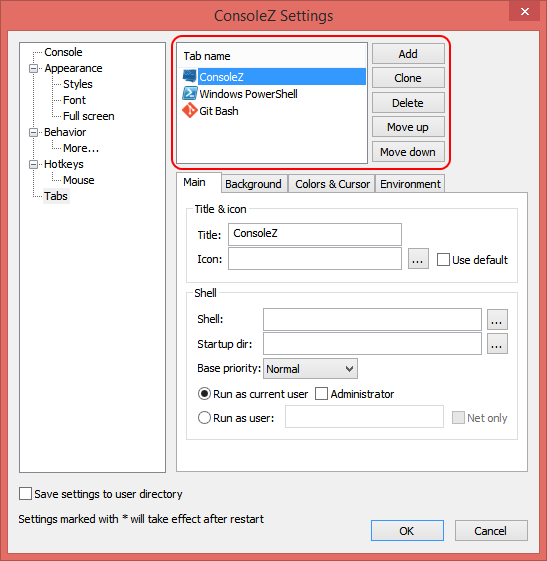
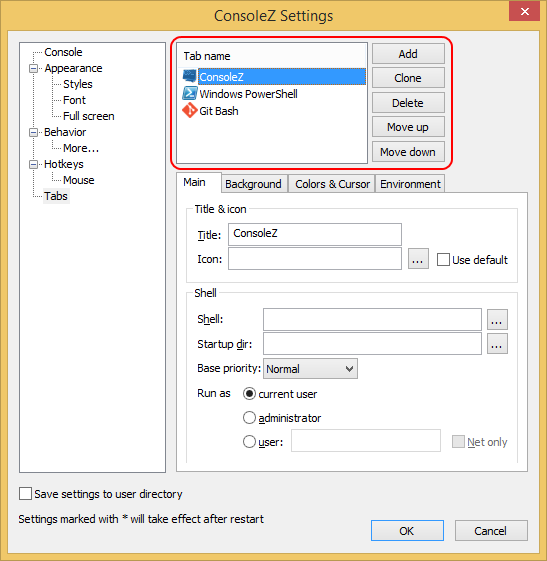
#167 remove ambiguity over "run as admnistrator" and "run as current user" in tabs settings

Changed region(s): [[0.0, 0.0, 1.0, 1.0], [0.3419, 0.697, 0.9324, 0.8182]]

diff --git a/help/html/settings_tabs_main.html b/help/html/settings_tabs_main.html
@@ -93,15 +93,18 @@
 	</p>
 	<br />
 
-	<p class="block-row-name">Administrator</p>
+	<p class="block-row-name">Run as administrator</p>
 	<p class="block-row-description">
-		If checked, the shell will be launched with elevated privileges.
+		Run as administrator with full unrestricted elevated rights and privileges.
+		Depending on what the UAC settings are set to, an administrator user may or may not
+		be prompted first by UAC to allow or deny the program to "Run as administrator" (elevated).
 	</p>
 	<br />
 
 	<p class="block-row-name">Run as user</p>
 	<p class="block-row-description">
-		If checked, a dialog, asking for another user's credentials will be displayed.
+		Run with different user credentials.
+		A dialog, asking for another user's credentials, will be displayed.
 		The dialog will be pre-populated with the given user name.
 		To use a domain account, enter your username in the form <i>domain</i>\<i>username</i> or <i>username</i>@<i>domain</i>.
 	</p>

diff --git a/Console/PageSettingsTabs1.cpp b/Console/PageSettingsTabs1.cpp
@@ -23,7 +23,6 @@ PageSettingsTabs1::PageSettingsTabs1()
 , m_nRunAs(0)
 , m_strUser(L"")
 , m_bNetOnly(false)
-, m_bRunAsAdmin(false)
 , m_tabShellEdit(this)
 {
 }
@@ -182,9 +181,8 @@ void PageSettingsTabs1::EnableControls()
 	GetDlgItem(IDC_TAB_ICON).EnableWindow(m_bUseDefaultIcon == false);
 	GetDlgItem(IDC_BTN_BROWSE_ICON).EnableWindow(m_bUseDefaultIcon == false);
 
-	GetDlgItem(IDC_TAB_USER).EnableWindow(m_nRunAs == 1);
-	GetDlgItem(IDC_CHECK_NET_ONLY).EnableWindow(m_nRunAs == 1);
-	GetDlgItem(IDC_CHECK_RUN_AS_ADMIN).EnableWindow(m_nRunAs == 0);
+	GetDlgItem(IDC_TAB_USER).EnableWindow(m_nRunAs == 2);
+	GetDlgItem(IDC_CHECK_NET_ONLY).EnableWindow(m_nRunAs == 2);
 }
 
 //////////////////////////////////////////////////////////////////////////////
@@ -202,10 +200,9 @@ void PageSettingsTabs1::Load(std::shared_ptr<TabData>& tabData)
 
 	m_strShell        = m_tabData->strShell.c_str();
 	m_strInitialDir   = m_tabData->strInitialDir.c_str();
-	m_nRunAs          = m_tabData->bRunAsUser? 1 : 0;
+	m_nRunAs          = m_tabData->bRunAsUser? 2 : m_tabData->bRunAsAdministrator? 1 : 0;
 	m_strUser         = m_tabData->strUser.c_str();
 	m_bNetOnly        = m_tabData->bNetOnly;
-	m_bRunAsAdmin     = m_tabData->bRunAsAdministrator;
 
 	m_comboPriority.SetCurSel(m_tabData->dwBasePriority);
 
@@ -229,10 +226,10 @@ void PageSettingsTabs1::Save()
 
 	m_tabData->strShell            = m_strShell;
 	m_tabData->strInitialDir       = m_strInitialDir;
-	m_tabData->bRunAsUser          = m_nRunAs == 1;
+	m_tabData->bRunAsUser          = m_nRunAs == 2;
 	m_tabData->strUser             = m_strUser;
 	m_tabData->bNetOnly            = m_bNetOnly;
-	m_tabData->bRunAsAdministrator = m_bRunAsAdmin;
+	m_tabData->bRunAsAdministrator = m_nRunAs == 1;
 
 	m_tabData->dwBasePriority      = m_comboPriority.GetCurSel();
 }
@@ -313,7 +310,7 @@ void PageSettingsTabs1::ConvertShellLink(CString& strShell)
 					if( SUCCEEDED(shellLink.QueryInterface(&dataList)) &&
 						  SUCCEEDED(dataList->GetFlags(&dwFlags)) )
 					{
-						m_bRunAsAdmin = (dwFlags & SLDF_RUNAS_USER) == SLDF_RUNAS_USER;
+						m_nRunAs = (dwFlags & SLDF_RUNAS_USER) == SLDF_RUNAS_USER ? 1 : 0;
 					}
 				}
 			}

diff --git a/Console/PageSettingsTabs1.h b/Console/PageSettingsTabs1.h
@@ -47,7 +47,6 @@ class PageSettingsTabs1
 			DDX_RADIO(IDC_CHECK_RUN_AS_CURRENT_USER, m_nRunAs)
 			DDX_TEXT(IDC_TAB_USER, m_strUser)
 			DDX_CHECK(IDC_CHECK_NET_ONLY, m_bNetOnly)
-			DDX_CHECK(IDC_CHECK_RUN_AS_ADMIN, m_bRunAsAdmin)
 		END_DDX_MAP()
 
 		BEGIN_MSG_MAP(PageSettingsTabs1)
@@ -60,8 +59,9 @@ class PageSettingsTabs1
 			COMMAND_ID_HANDLER(IDC_BTN_BROWSE_SHELL, OnClickedBtnBrowseShell)
 			COMMAND_ID_HANDLER(IDC_BTN_BROWSE_DIR, OnClickedBtnBrowseDir)
 			COMMAND_ID_HANDLER(IDC_CHECK_DEFAULT_ICON, OnCheckboxClicked)
-			COMMAND_ID_HANDLER(IDC_CHECK_RUN_AS_USER, OnCheckboxClicked)
 			COMMAND_ID_HANDLER(IDC_CHECK_RUN_AS_CURRENT_USER, OnCheckboxClicked)
+			COMMAND_ID_HANDLER(IDC_CHECK_RUN_AS_ADMIN, OnCheckboxClicked)
+			COMMAND_ID_HANDLER(IDC_CHECK_RUN_AS_USER, OnCheckboxClicked)
 		END_MSG_MAP()
 
 // Handler prototypes (uncomment arguments if needed):
@@ -103,7 +103,6 @@ class PageSettingsTabs1
 		int				m_nRunAs;
 		CString			m_strUser;
 		bool			m_bNetOnly;
-		bool			m_bRunAsAdmin;
 
 		CFileNameEdit        m_tabIconEdit;
 		CFileNameAndLinkEdit m_tabShellEdit;
